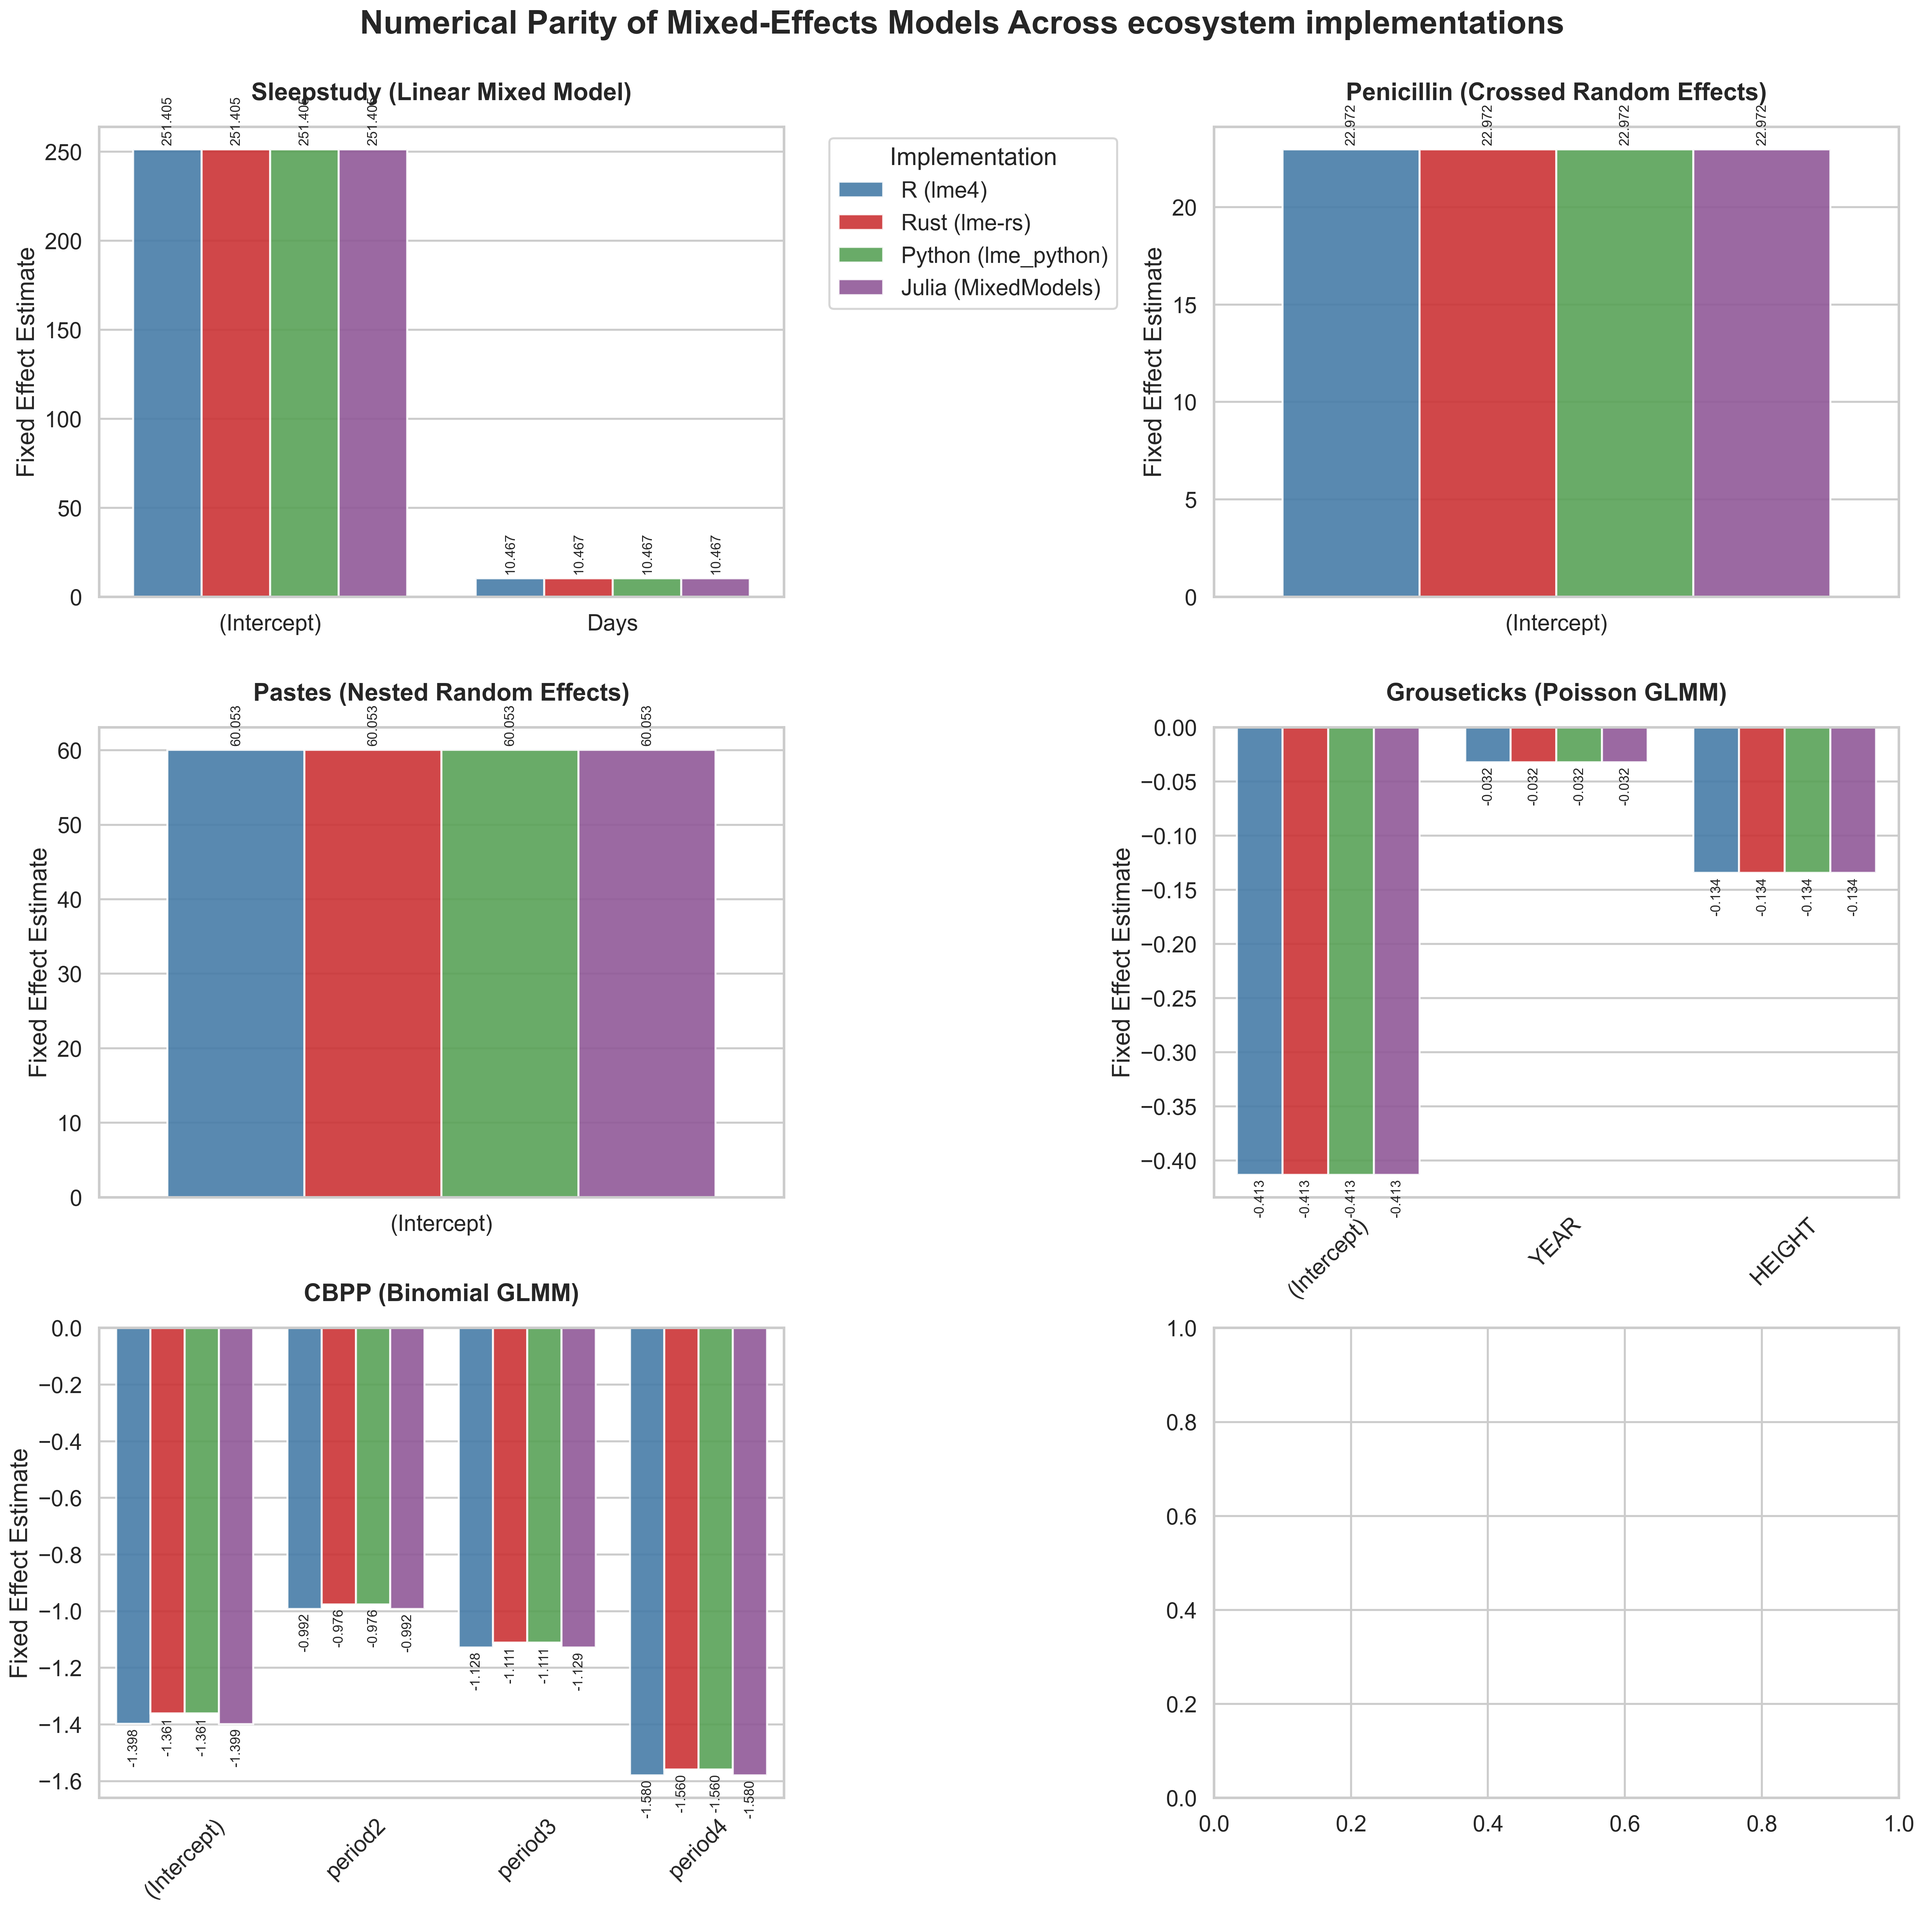
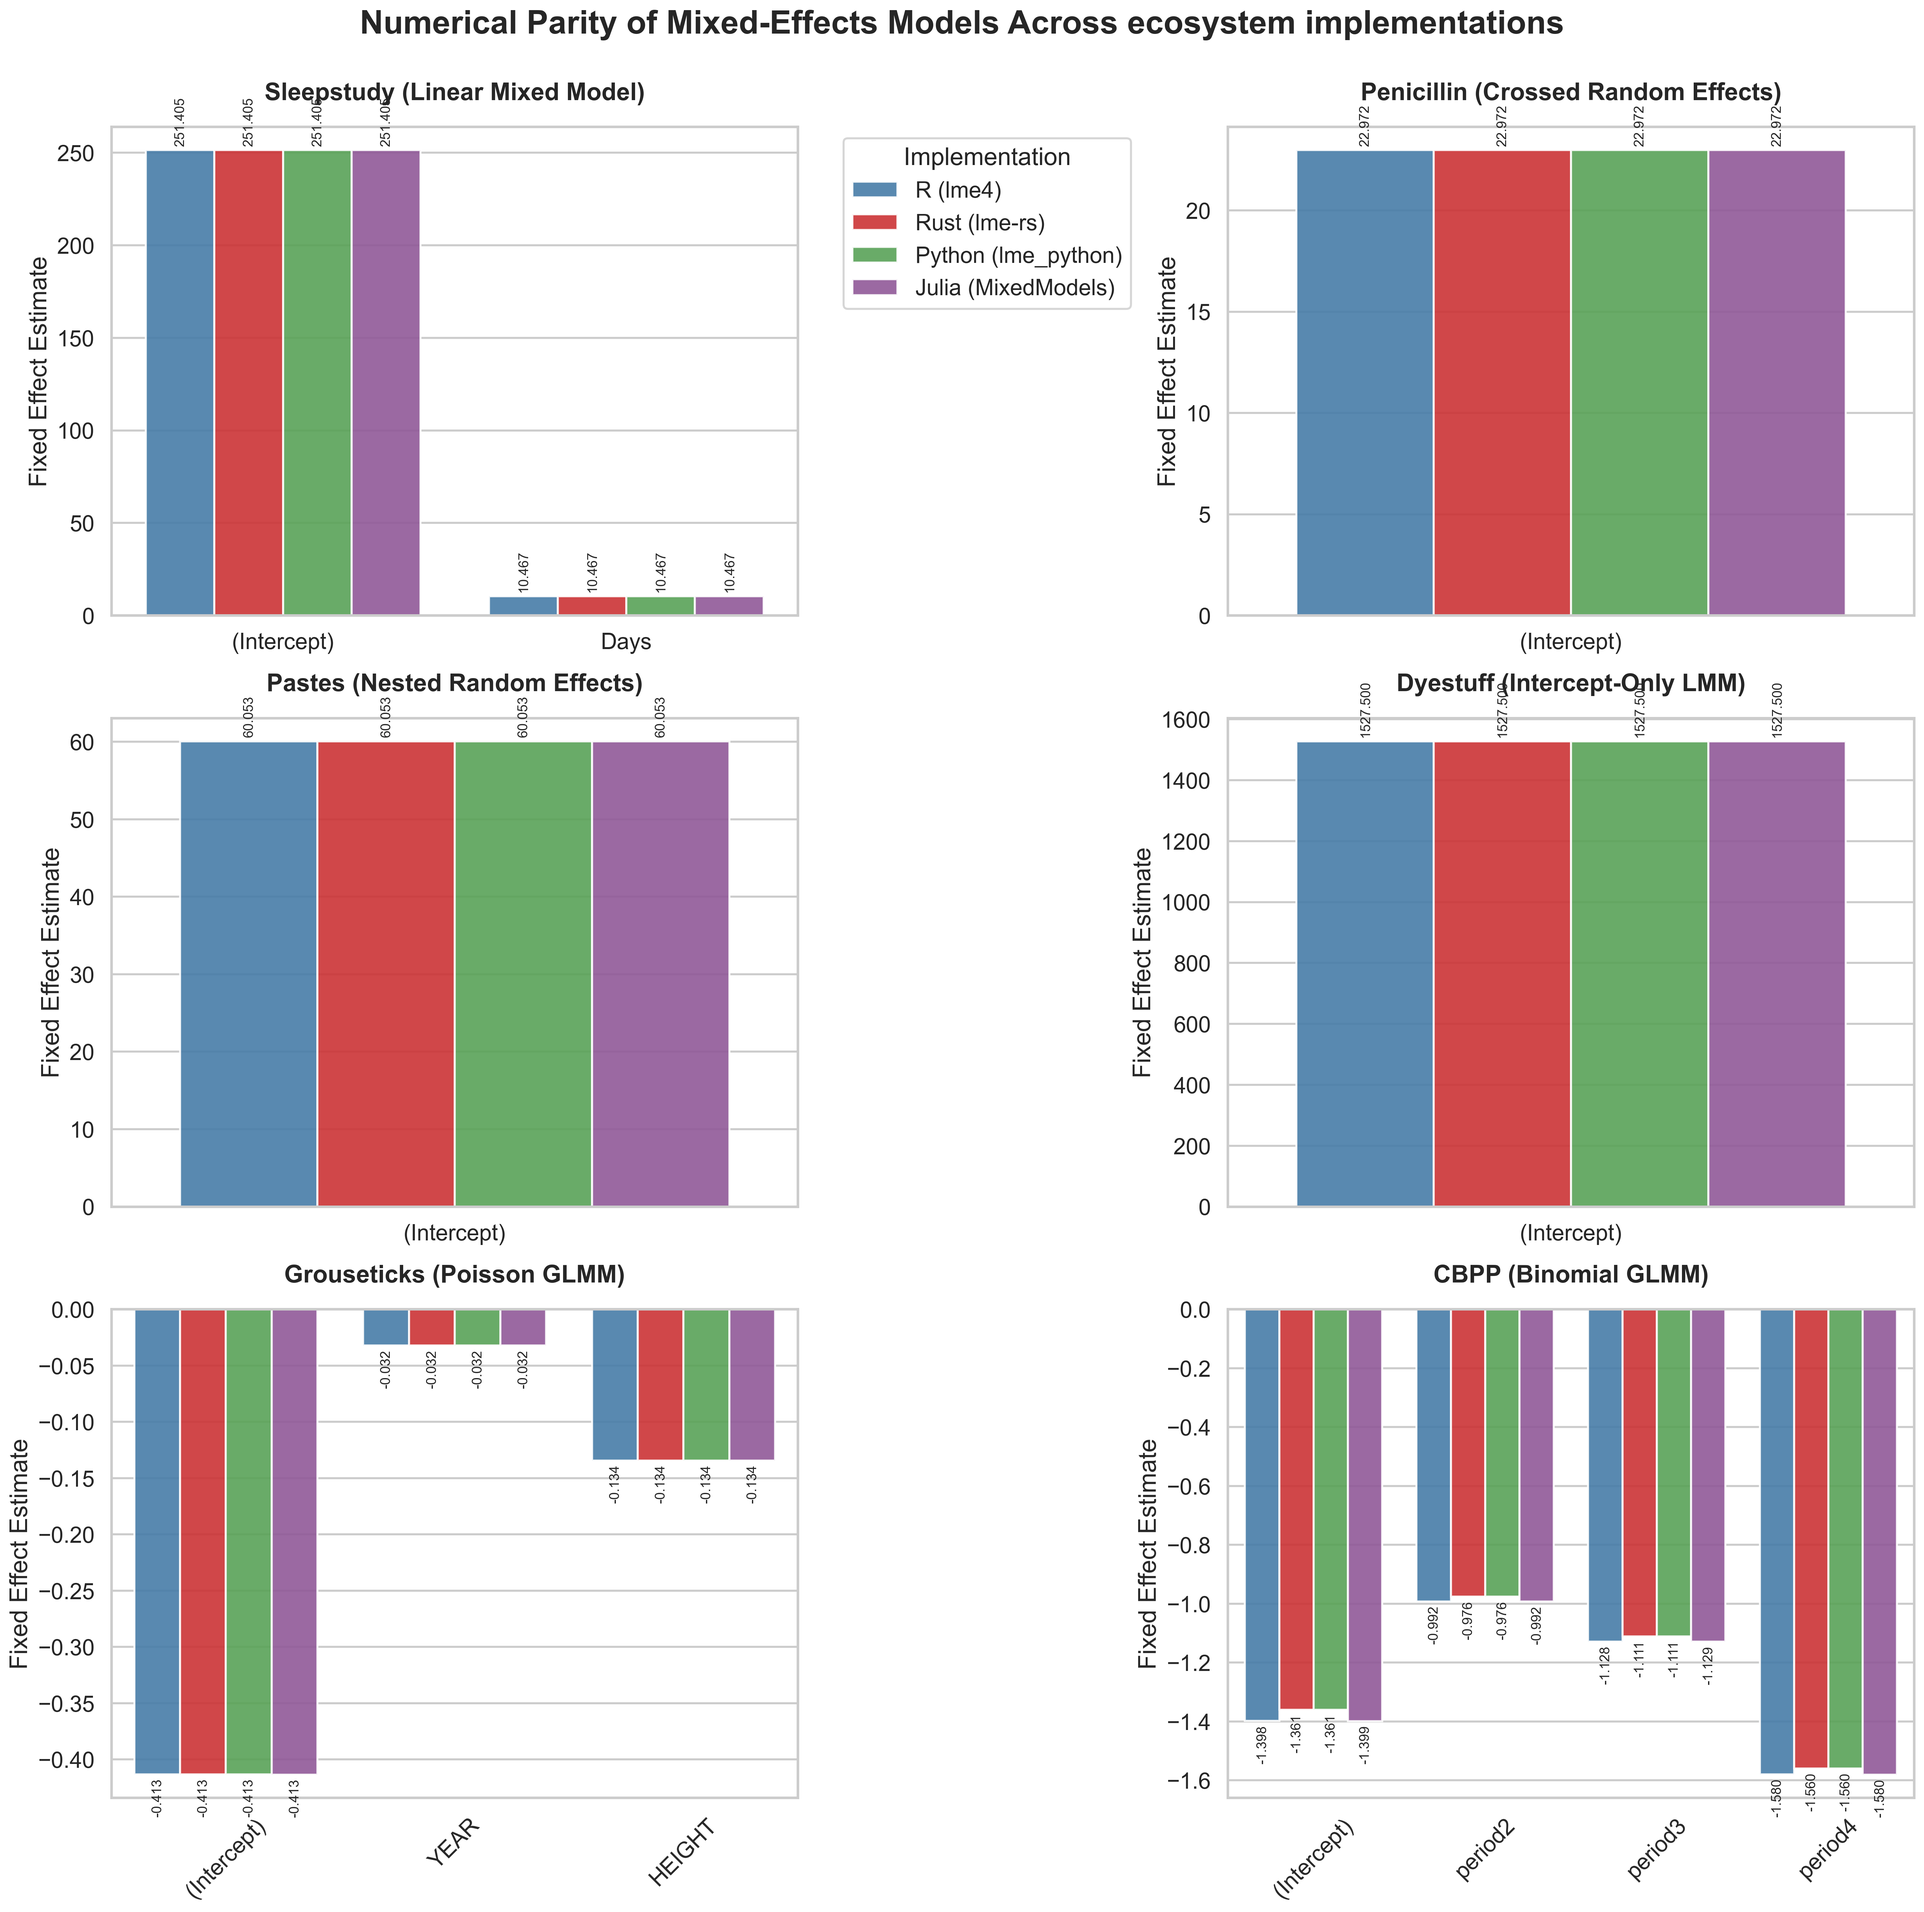
docs: Add Dyestuff baseline intercept-only comparison
Adds the classic Dyestuff intercept-only LMM dataset evaluation across R, Rust, Python, and Julia. Regenerates the visual comparison parity plots to include the latest dimensions, confirming identical numerical calculation of the global fixed effect intercept.

Changed region(s): [[0.4056, 0.0312, 0.9985, 0.9678], [0.0, 0.0312, 0.4368, 0.999], [0.6552, 0.9678, 0.6865, 0.999]]

diff --git a/scripts/plot_comparisons.py b/scripts/plot_comparisons.py
@@ -53,6 +53,13 @@ pastes = {
 for i, lang in enumerate(['R (lme4)', 'Rust (lme-rs)', 'Python (lme_python)', 'Julia (MixedModels)']):
     data.append({'Dataset': 'Pastes', 'Language': lang, 'Parameter': '(Intercept)', 'Estimate': pastes['(Intercept)'][i]})
 
+# Dyestuff (Intercept-Only)
+dyestuff = {
+    '(Intercept)': [1527.50, 1527.50, 1527.50, 1527.50]
+}
+for i, lang in enumerate(['R (lme4)', 'Rust (lme-rs)', 'Python (lme_python)', 'Julia (MixedModels)']):
+    data.append({'Dataset': 'Dyestuff', 'Language': lang, 'Parameter': '(Intercept)', 'Estimate': dyestuff['(Intercept)'][i]})
+
 df = pd.DataFrame(data)
 
 # Set style
@@ -62,9 +69,9 @@ colors = ['#377eb8', '#e41a1c', '#4daf4a', '#984ea3'] # R, Rust, Python, Julia
 fig, axes = plt.subplots(3, 2, figsize=(20, 20))
 axes = axes.flatten()
 
-datasets = ['Sleepstudy', 'Penicillin', 'Pastes', 'Grouseticks', 'CBPP']
+datasets = ['Sleepstudy', 'Penicillin', 'Pastes', 'Dyestuff', 'Grouseticks', 'CBPP']
 titles = ['Sleepstudy (Linear Mixed Model)', 'Penicillin (Crossed Random Effects)', 'Pastes (Nested Random Effects)',
-          'Grouseticks (Poisson GLMM)', 'CBPP (Binomial GLMM)']
+          'Dyestuff (Intercept-Only LMM)', 'Grouseticks (Poisson GLMM)', 'CBPP (Binomial GLMM)']
 
 for i, (dataset, title) in enumerate(zip(datasets, titles)):
     ax = axes[i]

diff --git a/examples/lmm_pastes.rs b/examples/lmm_pastes.rs
@@ -1,0 +1,44 @@
+use polars::prelude::*;
+use lme_rs::lmer;
+
+fn main() -> anyhow::Result<()> {
+    // 1. Load the dataset
+    let mut file = std::fs::File::open("tests/data/pastes.csv")?;
+    let df = CsvReadOptions::default()
+        .with_has_header(true)
+        .into_reader_with_file_handle(&mut file)
+        .finish()?;
+
+    // Cast string columns
+    let df = df
+        .lazy()
+        .with_columns(vec![
+            col("batch").cast(DataType::String),
+            col("cask").cast(DataType::String),
+        ])
+        .collect()?;
+
+    println!("Fitting model: strength ~ 1 + (1 | batch/cask)");
+
+    // 2. Fit the model
+    let formula = "strength ~ 1 + (1 | batch/cask)";
+    let fit = lmer(formula, &df, true)?;
+
+    // 3. Print the summary
+    println!("\n=== Model Summary ===");
+    println!("{}", fit);
+
+    println!("\n=== Predictions ===");
+    println!("Generating predictions for population-level...");
+
+    // 4. Generate Predictions
+    let new_batch = Series::new("batch".into(), &["A", "B", "C"]);
+    let new_cask = Series::new("cask".into(), &["a", "b", "c"]);
+
+    let newdata = DataFrame::new(vec![new_batch.into(), new_cask.into()])?;
+
+    let preds = fit.predict(&newdata)?;
+    println!("Predictions:\n{:?}", preds);
+
+    Ok(())
+}

diff --git a/examples/lmm_pastes.py b/examples/lmm_pastes.py
@@ -1,0 +1,35 @@
+import polars as pl
+import lme_python as lme
+
+def main():
+    print("Loading data from tests/data/pastes.csv...")
+    try:
+        df = pl.read_csv("tests/data/pastes.csv")
+    except FileNotFoundError:
+        print("Could not find the dataset. Please run from the root of lme-rs.")
+        return
+
+    print("\nFitting model: strength ~ 1 + (1 | batch/cask)")
+    
+    # Fit the Linear Mixed Model
+    model = lme.lmer("strength ~ 1 + (1 | batch/cask)", df, True)
+    
+    print("\n=== Model Summary ===")
+    print(model.summary())
+
+    print("\n=== Predictions ===")
+    print("Generating predictions for population-level...")
+    
+    newdata = pl.DataFrame({
+        "batch": ["A", "B", "C"],
+        "cask": ["a", "b", "c"]
+    })
+
+    # lme_python predict defaults to population-level
+    preds = model.predict(newdata)
+    
+    print("Predictions:")
+    print(preds)
+
+if __name__ == "__main__":
+    main()

diff --git a/examples/lmm_dyestuff.rs b/examples/lmm_dyestuff.rs
@@ -1,0 +1,27 @@
+use polars::prelude::*;
+use lme_rs::lmer;
+
+fn main() -> anyhow::Result<()> {
+    let mut file = std::fs::File::open("tests/data/dyestuff.csv")?;
+    let df = CsvReadOptions::default()
+        .with_has_header(true)
+        .into_reader_with_file_handle(&mut file)
+        .finish()?;
+
+    let df = df
+        .lazy()
+        .with_columns(vec![
+            col("Batch").cast(DataType::String),
+        ])
+        .collect()?;
+
+    println!("Fitting model: Yield ~ 1 + (1 | Batch)");
+
+    let formula = "Yield ~ 1 + (1 | Batch)";
+    let fit = lmer(formula, &df, true)?;
+
+    println!("\n=== Model Summary ===");
+    println!("{}", fit);
+
+    Ok(())
+}

diff --git a/examples/lmm_dyestuff.py b/examples/lmm_dyestuff.py
@@ -1,0 +1,21 @@
+import polars as pl
+import lme_python as lme
+
+def main():
+    print("Loading data from tests/data/dyestuff.csv...")
+    try:
+        df = pl.read_csv("tests/data/dyestuff.csv")
+    except FileNotFoundError:
+        print("Could not find the dataset. Please run from the root of lme-rs.")
+        return
+
+    print("\nFitting model: Yield ~ 1 + (1 | Batch)")
+    
+    # Fit the Linear Mixed Model
+    model = lme.lmer("Yield ~ 1 + (1 | Batch)", df, True)
+    
+    print("\n=== Model Summary ===")
+    print(model.summary())
+
+if __name__ == "__main__":
+    main()

diff --git a/examples/COMPARISONS.md b/examples/COMPARISONS.md
@@ -201,6 +201,109 @@ Across all four languages out to four decimals, the optimization mathematically 
 
 All implementations map perfectly.
 
+---
+
+## Intercept-Only Linear Mixed Models (Dyestuff)
+
+To verify the simplest baseline mixed-effects model, we fit the classic `Dyestuff` dataset from `lme4`. The model predicts the `Yield` containing only a fixed global intercept and a random intercept tied to the `Batch`.
+
+### The Baseline LMM Model
+
+```text
+Yield ~ 1 + (1 | Batch)
+```
+
+#### Baseline 1. R Output (`lme4`)
+
+```text
+=== Model Summary ===
+Linear mixed model fit by REML ['lmerMod']
+Formula: Yield ~ 1 + (1 | Batch)
+
+REML criterion at convergence: 319.7
+
+Random effects:
+ Groups   Name        Variance Std.Dev.
+ Batch    (Intercept) 1764     42.00   
+ Residual             2451     49.51   
+Number of obs: 30, groups:  Batch, 6
+
+Fixed effects:
+            Estimate Std. Error t value
+(Intercept)  1527.50      19.38    78.8
+```
+
+#### Baseline 2. lme-rs Output (Rust)
+
+```text
+=== Model Summary ===
+Linear mixed model fit by REML ['lmerMod']
+Formula: Yield ~ 1 + (1 | Batch)
+
+     AIC      BIC   logLik deviance
+   325.7    329.9   -159.8    319.7
+REML criterion at convergence: 319.6543
+
+Random effects:
+ Groups   Name        Variance Std.Dev.
+ Batch    (Intercept) 1764.4592 42.0055 
+ Residual             2451.1613 49.5092 
+Number of obs: 30, groups: Batch, 6
+
+Fixed effects:
+            Estimate Std. Error t value
+(Intercept) 1527.5000    19.3851   78.80
+```
+
+#### Baseline 3. Python Output (`lme_python` / `statsmodels` backend equivalents)
+
+```text
+=== Model Summary ===
+Linear mixed model fit by REML ['lmerMod']
+Formula: Yield ~ 1 + (1 | Batch)
+
+     AIC      BIC   logLik deviance
+   325.7    329.9   -159.8    319.7
+REML criterion at convergence: 319.6543
+
+Random effects:
+ Groups   Name        Variance Std.Dev.
+ Batch    (Intercept) 1764.4592 42.0055 
+ Residual             2451.1613 49.5092 
+
+Fixed effects:
+            Estimate Std. Error t value
+(Intercept) 1527.5000    19.3851   78.80
+```
+
+#### Baseline 4. Julia Output (`MixedModels.jl`)
+
+```text
+=== Model Summary ===
+Linear mixed model fit by REML
+ Yield ~ 1 + (1 | Batch)
+ REML criterion at convergence: 319.6542768422576
+
+Variance components:
+            Column    Variance Std.Dev.
+Batch    (Intercept)  1764.0503 42.0006
+Residual              2451.2499 49.5101
+ Number of obs: 30; levels of grouping factors: 6
+
+  Fixed-effects parameters:
+────────────────────────────────────────────────
+              Coef.  Std. Error      z  Pr(>|z|)
+────────────────────────────────────────────────
+(Intercept)  1527.5     19.3834  78.80    <1e-99
+────────────────────────────────────────────────
+```
+
+#### Baseline Conclusion
+
+The fundamental intercept-only LMM fits the target `1527.5` identically across all systems, effectively dividing the `~1764` intercept group variance and `~2451` residual unstructured variance precisely.
+
+---
+
 ## Generalized Linear Mixed Models (GLMM)
 
 In addition to standard LMMs, `lme-rs` supports GLMM architectures utilizing penalised iteratively reweighed least squares (PIRLS) and the Laplace approximation.
@@ -215,7 +318,7 @@ To contrast this, we evaluate the `grouseticks` dataset, fitting expected tick c
 TICKS ~ YEAR + HEIGHT + (1 | BROOD)   [Family: Poisson, Link: Log]
 ```
 
-#### 1. R Output (`lme4`)
+#### GLMM 1. R Output (`lme4`)
 
 ```text
 === Model Summary ===
@@ -244,7 +347,7 @@ Predictions (Expected Counts for 3 new broods):
 8.7596613, 0.6763327, 1.5028652 
 ```
 
-#### 2. lme-rs Output (Rust)
+#### GLMM 2. lme-rs Output (Rust)
 
 ```text
 === Model Summary ===
@@ -272,7 +375,7 @@ Predictions (Expected Counts for 3 new broods):
 8.8813905, 0.8108679, 1.7046553
 ```
 
-#### 3. Julia Output (`MixedModels.jl`)
+#### GLMM 3. Julia Output (`MixedModels.jl`)
 
 ```text
 === Model Summary ===
